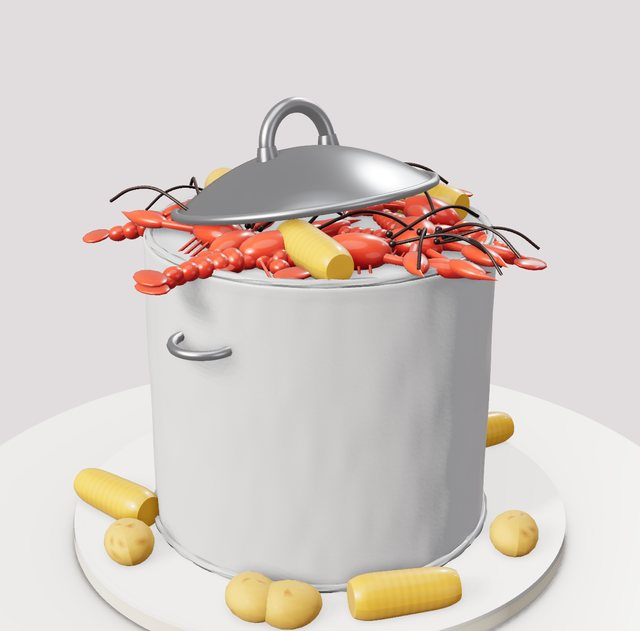
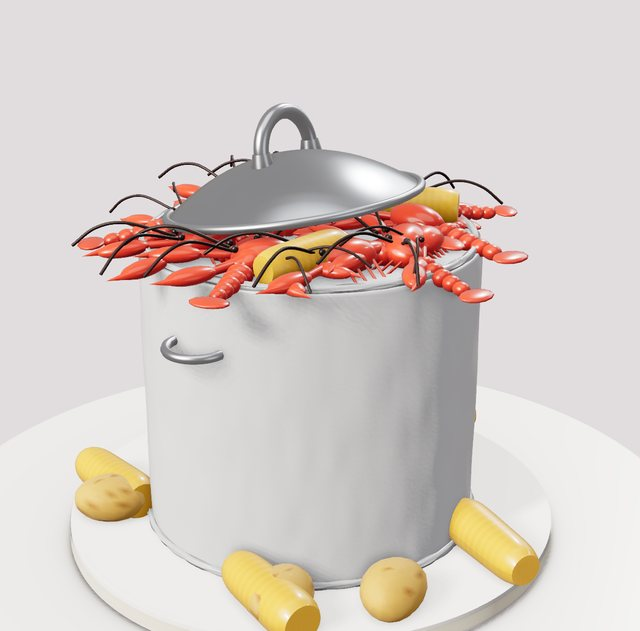
LEGO 6 on a round navy board; crawfish pot with more crawfish, corn and potatoes
Claude-Session: https://claude.ai/code/session_016sN14hzH19WJ5zrp8o2QGp

diff --git a/studio.html b/studio.html
@@ -1642,13 +1642,13 @@ THEMES.unshift(
   newTier(6.4,5.8,{color:'#e6f1f7',finish:'fondant',ombre:true,ombreColor:'#3c9be0',top:'none',bottom:'none',decor:[DC('clouds','scatter',14,{color:'#fbf7f1',size:180}),DC('balloon','cluster',1,{color:'#7fb0e8',size:440,center:true,face:95})]})]}},
  {key:'sig_sports',name:'All-Star Sports Number',tag:SIG,blurb:'A number 2 cut into sports zones: a blue baseball corner, a green soccer field, a wood basketball court and a striped football field, with a baseball and bat, soccer ball, basketball and football on an orange board.',d:{cakeType:'number',number:{text:'2',height:13,layers:2,cake:'vanilla',cream:'#3f8f45',style:'frosted',zones:[[0,.42,0,.45,'#2f6fd0'],[0,.42,.45,1,'#4fa84a'],[.42,.74,0,1,'#d6a15a'],[.74,1,0,1,'#3f8f45',11]]},board:'white',boardTint:'#d4621a',numBoard:'round',topper:'none',tiers:[
   newTier(8,4,{decor:[DC('baseball2','cluster',1,{size:260,seed:11}),DC('bat','cluster',1,{size:230,seed:23}),DC('soccerball','cluster',1,{size:260,seed:37}),DC('hoopball','cluster',1,{size:260,seed:5}),DC('football','cluster',1,{size:290,seed:67}),DC('sprinkles','cluster',120,{mix:['#fbf7f1']})]})]}},
- {key:'sig_blocks',name:'Building Block Number',tag:SIG,blurb:'A sunny yellow number 6 with a blue window, a mosaic wall of toy bricks around the side, rainbow sprinkles and bricks on top.',d:{cakeType:'number',number:{text:'6',height:13,layers:2,cake:'vanilla',cream:'#f6c919',style:'frosted',wall:['#e8475f','#2f6fd0','#f2c230','#5cc06c','#2f6fd0','#e8475f','#2a7a3a'],wallH:.95,holeFill:'#2f6fd0'},board:'white',boardColor:'#2f3f6b',topper:'none',tiers:[
+ {key:'sig_blocks',name:'Building Block Number',tag:SIG,blurb:'A sunny yellow number 6 with a blue window, a mosaic wall of toy bricks around the side, rainbow sprinkles and bricks on top.',d:{cakeType:'number',number:{text:'6',height:13,layers:2,cake:'vanilla',cream:'#f6c919',style:'frosted',wall:['#e8475f','#2f6fd0','#f2c230','#5cc06c','#2f6fd0','#e8475f','#2a7a3a'],wallH:.95,holeFill:'#2f6fd0'},board:'white',boardTint:'#34405e',numBoard:'round',topper:'none',tiers:[
   newTier(8,4,{decor:[DC('bricks','cluster',18,{size:250,mix:['#e8475f','#2f6fd0','#5cc06c']}),DC('sprinkles','cluster',260,{mix:['#e8475f','#2f6fd0','#5cc06c','#f28a3a','#fbf7f1']})]})]}},
  {key:'sig_movie',name:'Movie Night Popcorn',tag:SIG,blurb:'A red and white striped popcorn tier overflowing with popcorn and a "13" Admit One ticket, over a black and white chevron clapperboard tier with stars.',d:{board:'gold',topper:'none',tiers:[
   newTier(11,4.8,{color:'#fbf7f1',finish:'fondant',top:'none',bottom:'none',stencil:{pattern:'chevron',color:'#1d1b1f',size:1.4,height:4.6},decor:[DC('plaque','band',1,{color:'#1d1b1f',size:270,R:5.5,rot:55,y:.3}),DC('clapper','band',1,{size:210,rot:-40}),DC('stars','scatter',14,{mix:['#f38ab0','#5fc8d8','#f2c230'],size:210}),DC('dragees','scatter',20,{color:'#f2c230',size:140})]}),
   newTier(7.8,8.4,{color:'#fbf7f1',finish:'fondant',prof:'bucket',stencil:{pattern:'stripes',color:'#d62839',size:1.3,height:8.2},top:'rope',pipe:'#fbf7f1',bottom:'none',decor:[DC('poplabel','band',1,{color:'#d62839',size:200,R:3.7,rot:55,y:.6}),DC('popcorn','cluster',120,{color:'#f8efd4',size:260}),DC('ticket','cluster',1,{color:'#f6cf5a',size:300,center:true,face:95}),DC('stars','cluster',5,{mix:['#f38ab0','#5fc8d8','#f2c230'],size:240})]})]}},
  {key:'sig_crawfish',name:'Crawfish Boil Pot',tag:SIG,blurb:'A brushed silver stock pot cake with a tilted lid and loop handles, spilling over with crawfish and corn, with potatoes and corn on the board.',d:{board:'white',boardColor:'#ece5d3',topper:'none',tiers:[
-  newTier(8,7,{color:'#c4c8ce',finish:'fondant',texture:'brushed',top:'rope',pipe:'#aeb2b8',bottom:'rope',bottomColor:'#aeb2b8',decor:[DC('pothandle','band',2,{color:'#c9ccd2',size:160,y:2,rot:95}),DC('potlid2','cluster',1,{color:'#c9ccd2',size:300,center:true}),DC('crawfish','crown',9,{color:'#d2381e',size:300}),DC('corncob','crown',3,{color:'#eeb31c',size:250,rot:60}),DC('crawfish','cascade',4,{color:'#d2381e',rot:100,size:260}),DC('corncob','cluster',3,{color:'#eeb31c',size:260,where:'board'}),DC('potato','cluster',4,{color:'#d9a441',size:260,where:'board'})]})]}},
+  newTier(8,7,{color:'#c4c8ce',finish:'fondant',texture:'brushed',top:'rope',pipe:'#aeb2b8',bottom:'rope',bottomColor:'#aeb2b8',decor:[DC('pothandle','band',2,{color:'#c9ccd2',size:160,y:2,rot:95}),DC('potlid2','cluster',1,{color:'#c9ccd2',size:300,center:true}),DC('crawfish','crown',9,{color:'#d2381e',size:300}),DC('corncob','crown',3,{color:'#eeb31c',size:250,rot:60}),DC('crawfish','cascade',5,{color:'#d2381e',rot:-60,size:260}),DC('crawfish','cascade',4,{color:'#d2381e',rot:-10,size:250}),DC('corncob','cluster',5,{color:'#eeb31c',size:300,where:'board'}),DC('potato','cluster',5,{color:'#c99a45',size:320,where:'board'})]})]}},
  {key:'sig_bee',name:'Bumble Bee Garden',tag:SIG,blurb:'A smooth yellow dome bee head with big eyes and a smile, a fuzzy black piped collar, looped antennae and a garden of piped grass and sugar flowers.',d:{board:'white',boardColor:'#c9d96a',topper:'none',tiers:[
   newTier(13,1.6,{color:'#5cae4a',texture:'grass',top:'none',bottom:'none',decor:[DC('daisies','scatter',12,{color:'#fbf7f1',size:130}),DC('blossoms','scatter',18,{mix:['#f3a6c0','#f2c230','#7fb0e8','#e8475f'],size:130})]}),
   newTier(10.4,2.2,{color:'#1d1b1f',texture:'fur',top:'none',bottom:'none'}),

diff --git a/tools/signature-decor.js b/tools/signature-decor.js
@@ -310,13 +310,13 @@ THEMES.unshift(
   newTier(6.4,5.8,{color:'#e6f1f7',finish:'fondant',ombre:true,ombreColor:'#3c9be0',top:'none',bottom:'none',decor:[DC('clouds','scatter',14,{color:'#fbf7f1',size:180}),DC('balloon','cluster',1,{color:'#7fb0e8',size:440,center:true,face:95})]})]}},
  {key:'sig_sports',name:'All-Star Sports Number',tag:SIG,blurb:'A number 2 cut into sports zones: a blue baseball corner, a green soccer field, a wood basketball court and a striped football field, with a baseball and bat, soccer ball, basketball and football on an orange board.',d:{cakeType:'number',number:{text:'2',height:13,layers:2,cake:'vanilla',cream:'#3f8f45',style:'frosted',zones:[[0,.42,0,.45,'#2f6fd0'],[0,.42,.45,1,'#4fa84a'],[.42,.74,0,1,'#d6a15a'],[.74,1,0,1,'#3f8f45',11]]},board:'white',boardTint:'#d4621a',numBoard:'round',topper:'none',tiers:[
   newTier(8,4,{decor:[DC('baseball2','cluster',1,{size:260,seed:11}),DC('bat','cluster',1,{size:230,seed:23}),DC('soccerball','cluster',1,{size:260,seed:37}),DC('hoopball','cluster',1,{size:260,seed:5}),DC('football','cluster',1,{size:290,seed:67}),DC('sprinkles','cluster',120,{mix:['#fbf7f1']})]})]}},
- {key:'sig_blocks',name:'Building Block Number',tag:SIG,blurb:'A sunny yellow number 6 with a blue window, a mosaic wall of toy bricks around the side, rainbow sprinkles and bricks on top.',d:{cakeType:'number',number:{text:'6',height:13,layers:2,cake:'vanilla',cream:'#f6c919',style:'frosted',wall:['#e8475f','#2f6fd0','#f2c230','#5cc06c','#2f6fd0','#e8475f','#2a7a3a'],wallH:.95,holeFill:'#2f6fd0'},board:'white',boardColor:'#2f3f6b',topper:'none',tiers:[
+ {key:'sig_blocks',name:'Building Block Number',tag:SIG,blurb:'A sunny yellow number 6 with a blue window, a mosaic wall of toy bricks around the side, rainbow sprinkles and bricks on top.',d:{cakeType:'number',number:{text:'6',height:13,layers:2,cake:'vanilla',cream:'#f6c919',style:'frosted',wall:['#e8475f','#2f6fd0','#f2c230','#5cc06c','#2f6fd0','#e8475f','#2a7a3a'],wallH:.95,holeFill:'#2f6fd0'},board:'white',boardTint:'#34405e',numBoard:'round',topper:'none',tiers:[
   newTier(8,4,{decor:[DC('bricks','cluster',18,{size:250,mix:['#e8475f','#2f6fd0','#5cc06c']}),DC('sprinkles','cluster',260,{mix:['#e8475f','#2f6fd0','#5cc06c','#f28a3a','#fbf7f1']})]})]}},
  {key:'sig_movie',name:'Movie Night Popcorn',tag:SIG,blurb:'A red and white striped popcorn tier overflowing with popcorn and a "13" Admit One ticket, over a black and white chevron clapperboard tier with stars.',d:{board:'gold',topper:'none',tiers:[
   newTier(11,4.8,{color:'#fbf7f1',finish:'fondant',top:'none',bottom:'none',stencil:{pattern:'chevron',color:'#1d1b1f',size:1.4,height:4.6},decor:[DC('plaque','band',1,{color:'#1d1b1f',size:270,R:5.5,rot:55,y:.3}),DC('clapper','band',1,{size:210,rot:-40}),DC('stars','scatter',14,{mix:['#f38ab0','#5fc8d8','#f2c230'],size:210}),DC('dragees','scatter',20,{color:'#f2c230',size:140})]}),
   newTier(7.8,8.4,{color:'#fbf7f1',finish:'fondant',prof:'bucket',stencil:{pattern:'stripes',color:'#d62839',size:1.3,height:8.2},top:'rope',pipe:'#fbf7f1',bottom:'none',decor:[DC('poplabel','band',1,{color:'#d62839',size:200,R:3.7,rot:55,y:.6}),DC('popcorn','cluster',120,{color:'#f8efd4',size:260}),DC('ticket','cluster',1,{color:'#f6cf5a',size:300,center:true,face:95}),DC('stars','cluster',5,{mix:['#f38ab0','#5fc8d8','#f2c230'],size:240})]})]}},
  {key:'sig_crawfish',name:'Crawfish Boil Pot',tag:SIG,blurb:'A brushed silver stock pot cake with a tilted lid and loop handles, spilling over with crawfish and corn, with potatoes and corn on the board.',d:{board:'white',boardColor:'#ece5d3',topper:'none',tiers:[
-  newTier(8,7,{color:'#c4c8ce',finish:'fondant',texture:'brushed',top:'rope',pipe:'#aeb2b8',bottom:'rope',bottomColor:'#aeb2b8',decor:[DC('pothandle','band',2,{color:'#c9ccd2',size:160,y:2,rot:95}),DC('potlid2','cluster',1,{color:'#c9ccd2',size:300,center:true}),DC('crawfish','crown',9,{color:'#d2381e',size:300}),DC('corncob','crown',3,{color:'#eeb31c',size:250,rot:60}),DC('crawfish','cascade',4,{color:'#d2381e',rot:100,size:260}),DC('corncob','cluster',3,{color:'#eeb31c',size:260,where:'board'}),DC('potato','cluster',4,{color:'#d9a441',size:260,where:'board'})]})]}},
+  newTier(8,7,{color:'#c4c8ce',finish:'fondant',texture:'brushed',top:'rope',pipe:'#aeb2b8',bottom:'rope',bottomColor:'#aeb2b8',decor:[DC('pothandle','band',2,{color:'#c9ccd2',size:160,y:2,rot:95}),DC('potlid2','cluster',1,{color:'#c9ccd2',size:300,center:true}),DC('crawfish','crown',9,{color:'#d2381e',size:300}),DC('corncob','crown',3,{color:'#eeb31c',size:250,rot:60}),DC('crawfish','cascade',5,{color:'#d2381e',rot:-60,size:260}),DC('crawfish','cascade',4,{color:'#d2381e',rot:-10,size:250}),DC('corncob','cluster',5,{color:'#eeb31c',size:300,where:'board'}),DC('potato','cluster',5,{color:'#c99a45',size:320,where:'board'})]})]}},
  {key:'sig_bee',name:'Bumble Bee Garden',tag:SIG,blurb:'A smooth yellow dome bee head with big eyes and a smile, a fuzzy black piped collar, looped antennae and a garden of piped grass and sugar flowers.',d:{board:'white',boardColor:'#c9d96a',topper:'none',tiers:[
   newTier(13,1.6,{color:'#5cae4a',texture:'grass',top:'none',bottom:'none',decor:[DC('daisies','scatter',12,{color:'#fbf7f1',size:130}),DC('blossoms','scatter',18,{mix:['#f3a6c0','#f2c230','#7fb0e8','#e8475f'],size:130})]}),
   newTier(10.4,2.2,{color:'#1d1b1f',texture:'fur',top:'none',bottom:'none'}),

diff --git a/tools/sig-themes.js b/tools/sig-themes.js
@@ -45,13 +45,13 @@ THEMES.unshift(
   newTier(6.4,5.8,{color:'#e6f1f7',finish:'fondant',ombre:true,ombreColor:'#3c9be0',top:'none',bottom:'none',decor:[DC('clouds','scatter',14,{color:'#fbf7f1',size:180}),DC('balloon','cluster',1,{color:'#7fb0e8',size:440,center:true,face:95})]})]}},
  {key:'sig_sports',name:'All-Star Sports Number',tag:SIG,blurb:'A number 2 cut into sports zones: a blue baseball corner, a green soccer field, a wood basketball court and a striped football field, with a baseball and bat, soccer ball, basketball and football on an orange board.',d:{cakeType:'number',number:{text:'2',height:13,layers:2,cake:'vanilla',cream:'#3f8f45',style:'frosted',zones:[[0,.42,0,.45,'#2f6fd0'],[0,.42,.45,1,'#4fa84a'],[.42,.74,0,1,'#d6a15a'],[.74,1,0,1,'#3f8f45',11]]},board:'white',boardTint:'#d4621a',numBoard:'round',topper:'none',tiers:[
   newTier(8,4,{decor:[DC('baseball2','cluster',1,{size:260,seed:11}),DC('bat','cluster',1,{size:230,seed:23}),DC('soccerball','cluster',1,{size:260,seed:37}),DC('hoopball','cluster',1,{size:260,seed:5}),DC('football','cluster',1,{size:290,seed:67}),DC('sprinkles','cluster',120,{mix:['#fbf7f1']})]})]}},
- {key:'sig_blocks',name:'Building Block Number',tag:SIG,blurb:'A sunny yellow number 6 with a blue window, a mosaic wall of toy bricks around the side, rainbow sprinkles and bricks on top.',d:{cakeType:'number',number:{text:'6',height:13,layers:2,cake:'vanilla',cream:'#f6c919',style:'frosted',wall:['#e8475f','#2f6fd0','#f2c230','#5cc06c','#2f6fd0','#e8475f','#2a7a3a'],wallH:.95,holeFill:'#2f6fd0'},board:'white',boardColor:'#2f3f6b',topper:'none',tiers:[
+ {key:'sig_blocks',name:'Building Block Number',tag:SIG,blurb:'A sunny yellow number 6 with a blue window, a mosaic wall of toy bricks around the side, rainbow sprinkles and bricks on top.',d:{cakeType:'number',number:{text:'6',height:13,layers:2,cake:'vanilla',cream:'#f6c919',style:'frosted',wall:['#e8475f','#2f6fd0','#f2c230','#5cc06c','#2f6fd0','#e8475f','#2a7a3a'],wallH:.95,holeFill:'#2f6fd0'},board:'white',boardTint:'#34405e',numBoard:'round',topper:'none',tiers:[
   newTier(8,4,{decor:[DC('bricks','cluster',18,{size:250,mix:['#e8475f','#2f6fd0','#5cc06c']}),DC('sprinkles','cluster',260,{mix:['#e8475f','#2f6fd0','#5cc06c','#f28a3a','#fbf7f1']})]})]}},
  {key:'sig_movie',name:'Movie Night Popcorn',tag:SIG,blurb:'A red and white striped popcorn tier overflowing with popcorn and a "13" Admit One ticket, over a black and white chevron clapperboard tier with stars.',d:{board:'gold',topper:'none',tiers:[
   newTier(11,4.8,{color:'#fbf7f1',finish:'fondant',top:'none',bottom:'none',stencil:{pattern:'chevron',color:'#1d1b1f',size:1.4,height:4.6},decor:[DC('plaque','band',1,{color:'#1d1b1f',size:270,R:5.5,rot:55,y:.3}),DC('clapper','band',1,{size:210,rot:-40}),DC('stars','scatter',14,{mix:['#f38ab0','#5fc8d8','#f2c230'],size:210}),DC('dragees','scatter',20,{color:'#f2c230',size:140})]}),
   newTier(7.8,8.4,{color:'#fbf7f1',finish:'fondant',prof:'bucket',stencil:{pattern:'stripes',color:'#d62839',size:1.3,height:8.2},top:'rope',pipe:'#fbf7f1',bottom:'none',decor:[DC('poplabel','band',1,{color:'#d62839',size:200,R:3.7,rot:55,y:.6}),DC('popcorn','cluster',120,{color:'#f8efd4',size:260}),DC('ticket','cluster',1,{color:'#f6cf5a',size:300,center:true,face:95}),DC('stars','cluster',5,{mix:['#f38ab0','#5fc8d8','#f2c230'],size:240})]})]}},
  {key:'sig_crawfish',name:'Crawfish Boil Pot',tag:SIG,blurb:'A brushed silver stock pot cake with a tilted lid and loop handles, spilling over with crawfish and corn, with potatoes and corn on the board.',d:{board:'white',boardColor:'#ece5d3',topper:'none',tiers:[
-  newTier(8,7,{color:'#c4c8ce',finish:'fondant',texture:'brushed',top:'rope',pipe:'#aeb2b8',bottom:'rope',bottomColor:'#aeb2b8',decor:[DC('pothandle','band',2,{color:'#c9ccd2',size:160,y:2,rot:95}),DC('potlid2','cluster',1,{color:'#c9ccd2',size:300,center:true}),DC('crawfish','crown',9,{color:'#d2381e',size:300}),DC('corncob','crown',3,{color:'#eeb31c',size:250,rot:60}),DC('crawfish','cascade',4,{color:'#d2381e',rot:100,size:260}),DC('corncob','cluster',3,{color:'#eeb31c',size:260,where:'board'}),DC('potato','cluster',4,{color:'#d9a441',size:260,where:'board'})]})]}},
+  newTier(8,7,{color:'#c4c8ce',finish:'fondant',texture:'brushed',top:'rope',pipe:'#aeb2b8',bottom:'rope',bottomColor:'#aeb2b8',decor:[DC('pothandle','band',2,{color:'#c9ccd2',size:160,y:2,rot:95}),DC('potlid2','cluster',1,{color:'#c9ccd2',size:300,center:true}),DC('crawfish','crown',9,{color:'#d2381e',size:300}),DC('corncob','crown',3,{color:'#eeb31c',size:250,rot:60}),DC('crawfish','cascade',5,{color:'#d2381e',rot:-60,size:260}),DC('crawfish','cascade',4,{color:'#d2381e',rot:-10,size:250}),DC('corncob','cluster',5,{color:'#eeb31c',size:300,where:'board'}),DC('potato','cluster',5,{color:'#c99a45',size:320,where:'board'})]})]}},
  {key:'sig_bee',name:'Bumble Bee Garden',tag:SIG,blurb:'A smooth yellow dome bee head with big eyes and a smile, a fuzzy black piped collar, looped antennae and a garden of piped grass and sugar flowers.',d:{board:'white',boardColor:'#c9d96a',topper:'none',tiers:[
   newTier(13,1.6,{color:'#5cae4a',texture:'grass',top:'none',bottom:'none',decor:[DC('daisies','scatter',12,{color:'#fbf7f1',size:130}),DC('blossoms','scatter',18,{mix:['#f3a6c0','#f2c230','#7fb0e8','#e8475f'],size:130})]}),
   newTier(10.4,2.2,{color:'#1d1b1f',texture:'fur',top:'none',bottom:'none'}),
